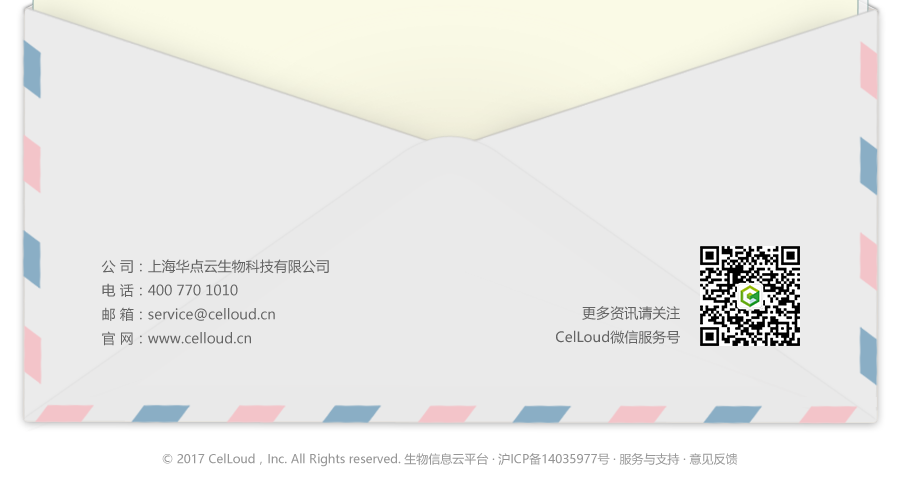
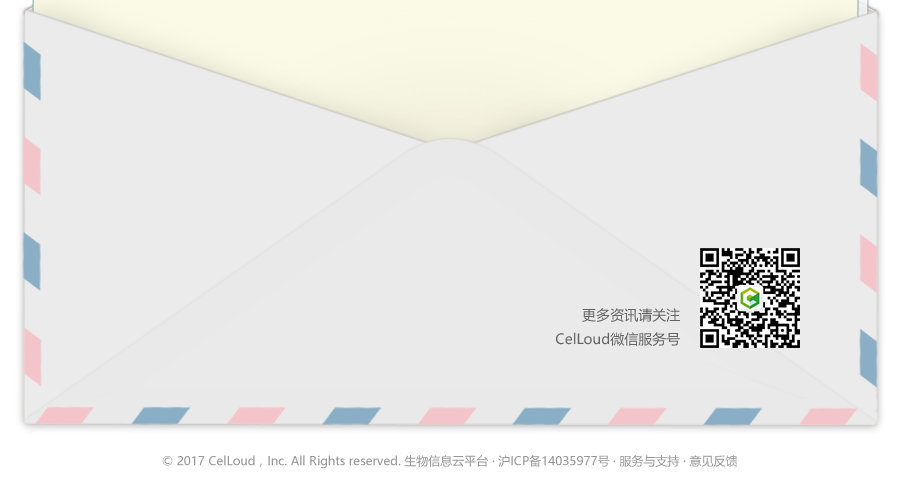
update:异常信息模板修改内容换行 替换底部图片

Changed region(s): [[0.0933, 0.5225, 0.3733, 0.707], [0.6222, 0.4918, 0.9022, 0.707]]

diff --git a/emailTemplate/exception.html b/emailTemplate/exception.html
@@ -3,11 +3,12 @@
 	<head>
 		<meta charset="UTF-8">
 		<title>celLoud邮件</title>
+
 	</head>
 	
 	<body style="color: #323232;width: 100%;min-height: 100%;padding:0;margin:0; font-family: '微软雅黑';font-size: 16rem;background: #fffffb;">
 		<div style="color: #323232;padding:0;margin:0;width:900px;font-family: '微软雅黑';font-size: 16px;margin: 0 auto;overflow: hidden;">
-			<table border="0" cellspacing="0" cellpadding="0" >
+			<table border="0" cellspacing="0" cellpadding="0" align="center">
 				<tbody>
 					<!--------top-------->
 					<tr style="padding:0;margin:0;display:block;width: 900px;height: 269px;background: url('img/top.png') no-repeat;overflow: hidden;">
@@ -22,7 +23,7 @@
 							<span style="color: #323232;color: #323232;padding:0;margin:0;font-family: '微软雅黑';font-size: 16px; margin: 0px 0 50px 0;display: block;">尊敬的管理员您好：</span>
 							<p style="color: #323232;color: #323232;padding:0;margin:0;font-family: '微软雅黑';font-size: 16px;  margin-bottom: 30px;text-indent:32px;">您收到这封电子邮件是因为 CelLoud 平台出现异常，如果您不是管理员，请不用理会这封电子邮件，但是如果您持续收到这类的信件骚扰，请您尽快联络管理员（Email:service@celloud.cn）。</p>
 							<p style="color: #323232;color: #323232;padding:0;margin:0;font-family: '微软雅黑';font-size: 16px;  margin-bottom: 15px;text-indent:32px;">异常信息如下：</p>
-							<p style="color: #323232;color: #323232;padding:0;margin:0;font-family: '微软雅黑';font-size: 16px;  margin-bottom: 30px;">${context}</p>
+							<p style="color: #323232;color: #323232;padding:0;margin:0;font-family: '微软雅黑';font-size: 16px;  margin-bottom: 30px;word-wrap: break-word;width: 700px;">${context}</p>
 						</td>
 					</tr>
 					<!------bottom---------->
